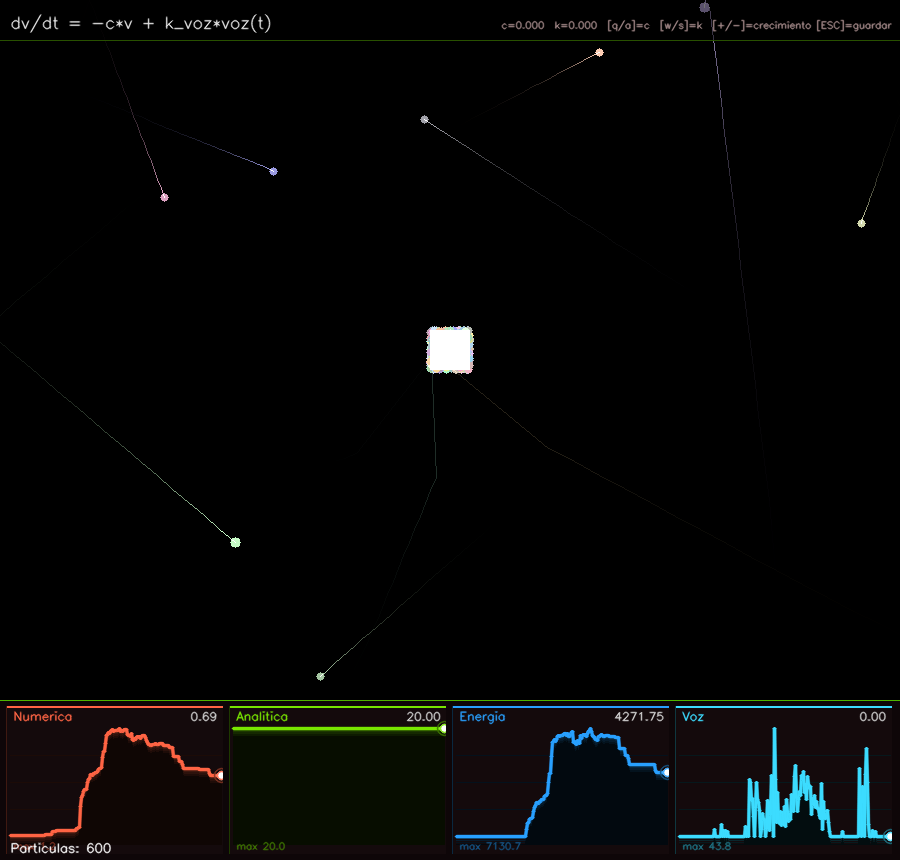
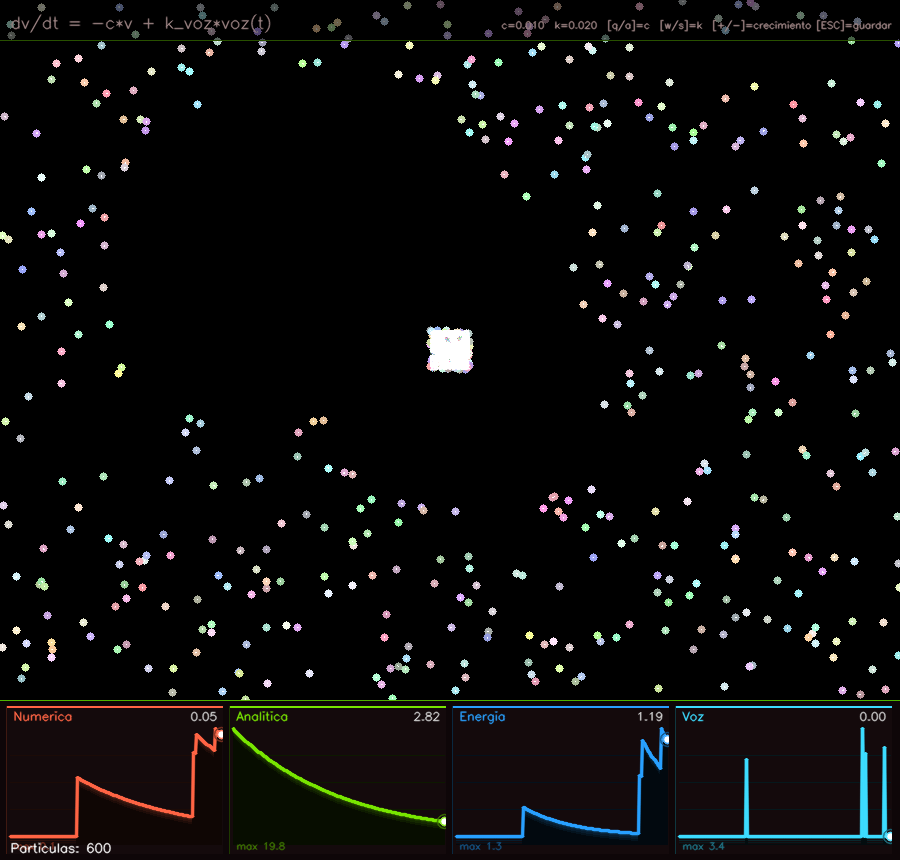
nuevos cambios

diff --git a/templates/index.html b/templates/index.html
@@ -3,7 +3,7 @@
 <head>
   <meta charset="UTF-8"/>
   <meta name="viewport" content="width=device-width, initial-scale=1.0"/>
-  <title>GestBact · Launcher</title>
+  <title>Real Simulator</title>
   <link href="https://fonts.googleapis.com/css2?family=Outfit:wght@300;400;600;700;900&family=Space+Mono:wght@400;700&display=swap" rel="stylesheet"/>
   <style>
     *, *::before, *::after { box-sizing: border-box; margin: 0; padding: 0; }

diff --git a/particles/main.py b/particles/main.py
@@ -237,7 +237,7 @@ while True:
     cv2.addWeighted(overlay, 0.55, final, 0.45, 0, final)
     cv2.line(final, (0, 40), (sim_width, 40), (0, 80, 40), 1)
     cv2.putText(final, "dv/dt = -c*v + k_voz*voz(t)", (10, 28),
-                cv2.FONT_HERSHEY_SIMPLEX, 0.55, (225, 225, 225), 1, cv2.LINE_AA)
+                cv2.FONT_HERSHEY_SIMPLEX, 0.55, (130, 130, 155), 1, cv2.LINE_AA)
     params_str = f"c={c:.3f}  k={k_voz:.3f}  [q/a]=c  [w/s]=k  [+/-]=crecimiento [ESC]=guardar"
     (pw, _), _ = cv2.getTextSize(params_str, cv2.FONT_HERSHEY_SIMPLEX, 0.32, 1)
     cv2.putText(final, params_str, (sim_width-pw-8, 28),

diff --git a/launcher/app.py b/launcher/app.py
@@ -56,7 +56,7 @@ PROYECTOS = {
         "descripcion": "Simulación interactiva de partículas con amortiguamiento y ruido en tiempo real.",
         "icono_png":   "particulas.png",
         "icono_gif":   "particulas.gif",
-        "script":      "particles/file.py",
+        "script":      "particles/main.py",
         "cwd":         "particles",
        
     },
